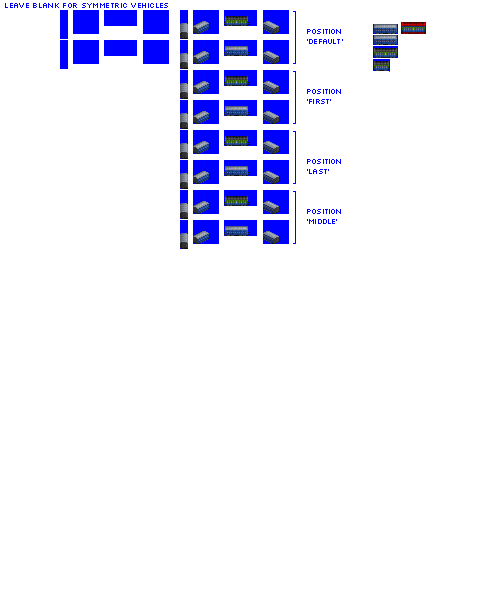
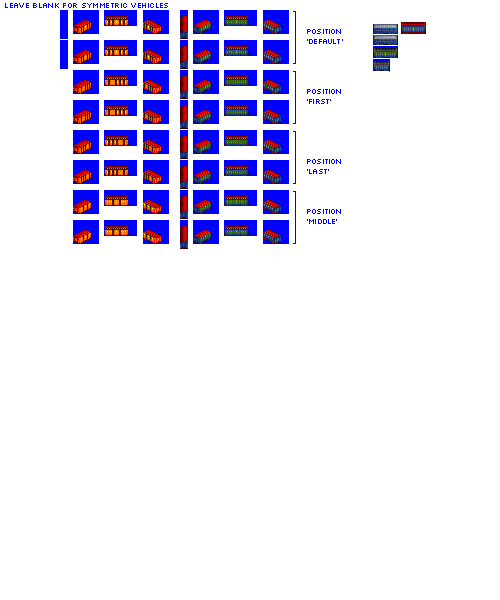
Change: sprites complete for NG gen 1A luxury pax car

diff --git a/src/vehicles/luxury_passenger_cars.py b/src/vehicles/luxury_passenger_cars.py
@@ -7,7 +7,8 @@ def main():
                                         base_numeric_id=1530,
                                         gen=1,
                                         subtype='A',
-                                        base_track_type='NG')
+                                        base_track_type='NG',
+                                        sprites_complete=True)
 
     consist.add_unit(type=PaxMailCar,
                      capacity=25,
